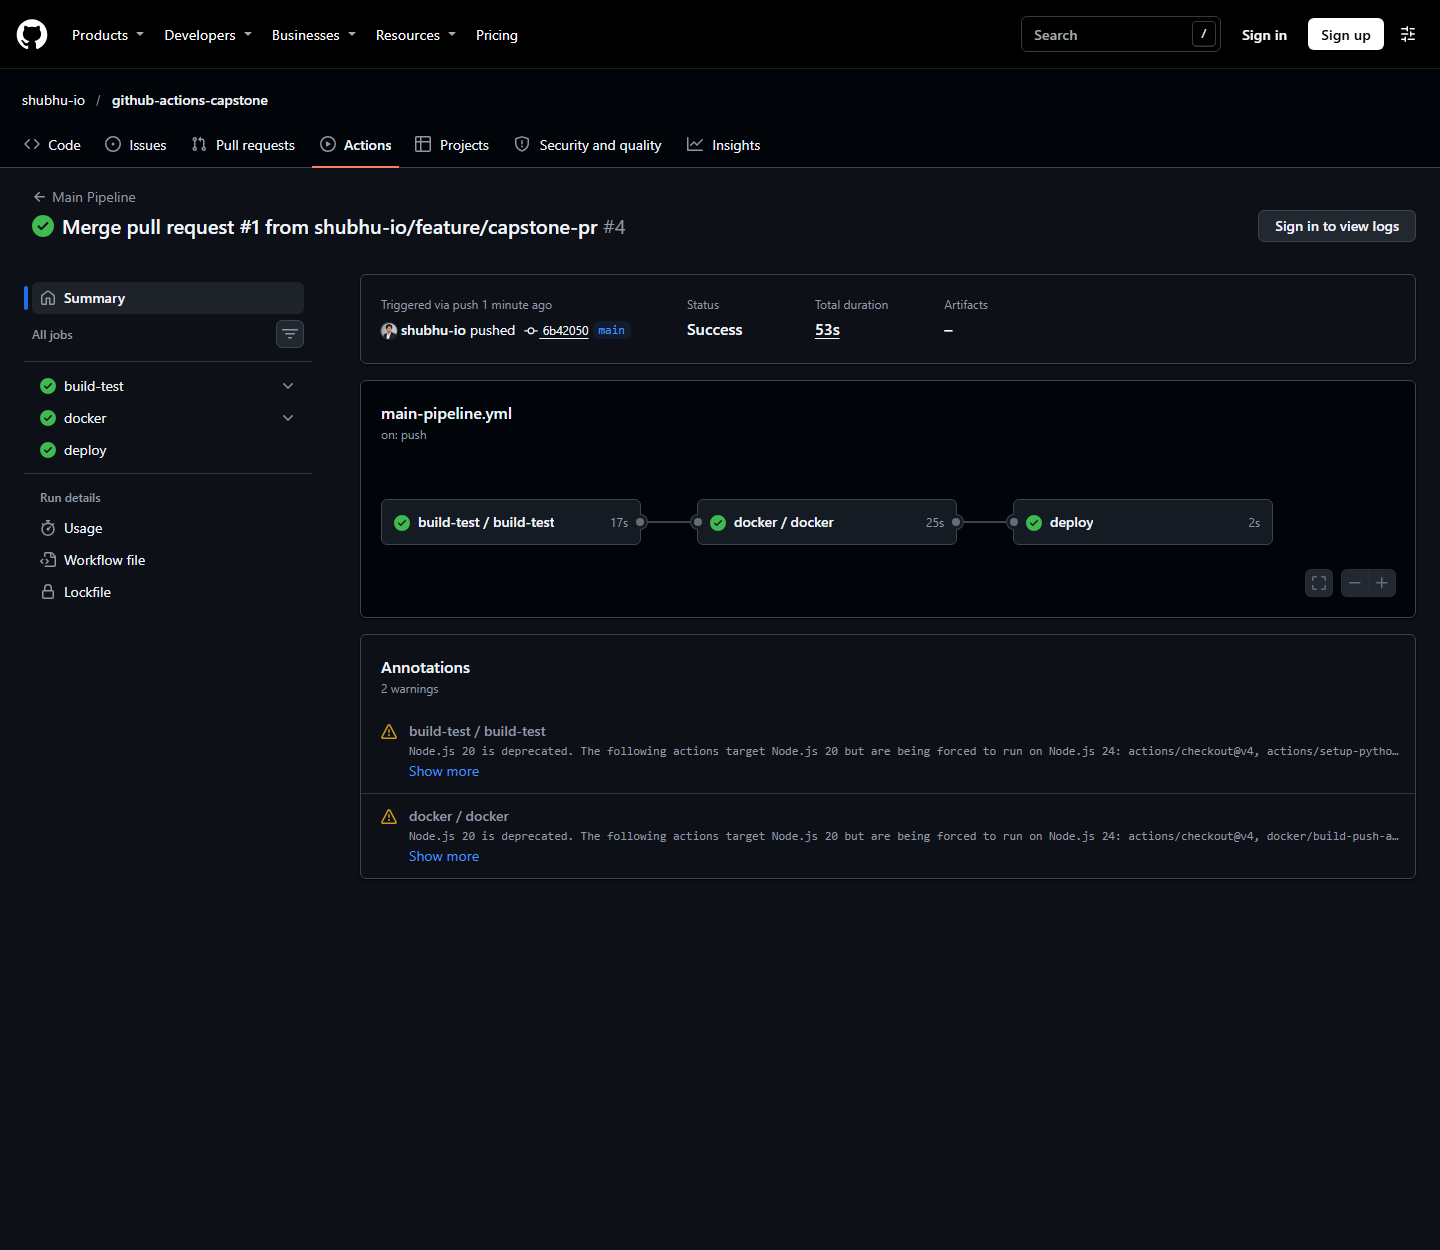
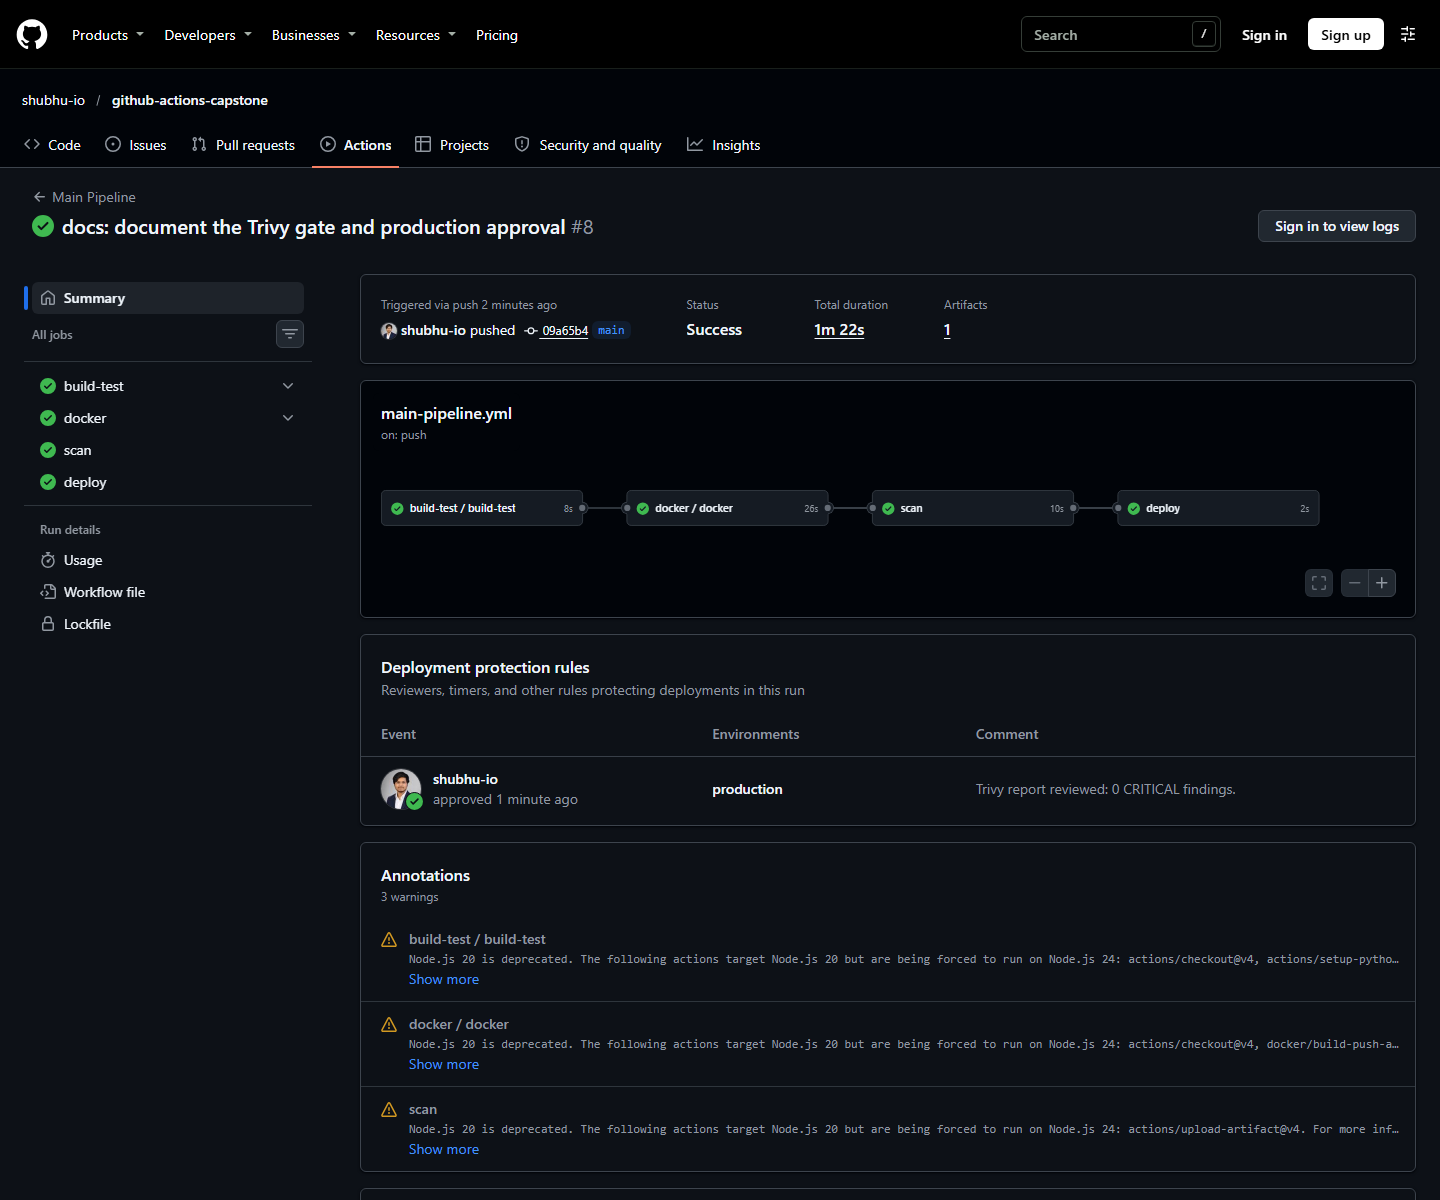
Day 48: add the real Trivy gate and production approval

diff --git a/2026/day-48/day-48-actions-project.md b/2026/day-48/day-48-actions-project.md
@@ -76,17 +76,22 @@ ran only `build-test` and `pr-comment`, finished in 20s, and published no image.
 
 ## Task 5: Main Branch Pipeline
 
-`.github/workflows/main-pipeline.yml` runs on `push` to `main`. Three jobs run in
-order: `build-test` → `docker` → `deploy`. The deploy job uses
-`environment: production`.
+`.github/workflows/main-pipeline.yml` runs on `push` to `main`. Four jobs run in
+order: `build-test` → `docker` → `scan` → `deploy`. The deploy job uses
+`environment: production`, which requires a reviewer.
 
-**Verification:** merging the PR ran the full chain in 53 seconds and printed:
+**Verification:** the latest run finished in 1m 22s. The deploy waited for approval,
+then printed:
 
 ```text
 Deploying image: ghcr.io/shubhu-io/github-actions-capstone:latest to production
 ```
 
-![Main pipeline: build-test, docker, deploy](./screenshots/actions-main-pipeline.png)
+![Main pipeline: build-test, docker, scan, deploy - approved](screenshots/actions-main-pipeline.png)
+
+While waiting, the run page shows the gate clearly:
+
+![Production requires an approval before deploy starts](screenshots/actions-production-approval.png)
 
 ![Deploy job, all steps green](./screenshots/actions-deploy-job.png)
 
@@ -131,7 +136,7 @@ subgraph PR["Pull Request"]
 end
 
 subgraph MAIN["Merge to main"]
-  D["Push to main"] --> E["Reusable build & test"] --> F["Docker build & push<br/>latest + sha-commit"] --> G["Deploy<br/>production environment"]
+  D["Push to main"] --> E["Reusable build & test"] --> F["Docker build & push<br/>latest + sha-commit"] --> S["Trivy scan<br/>CRITICAL gate"] --> G["Deploy<br/>approved for production"]
 end
 
 subgraph HEALTH["Every 12 hours"]
@@ -145,33 +150,54 @@ end
 |---|---|
 | Slack or Teams alert on failure | Know about a red `main` in seconds |
 | Staging environment before production | Catch problems before the real deploy |
-| Trivy scan before the push | Block CRITICAL CVEs (Day 49) |
 | Rollback to the last `sha-*` tag | Recover from a bad health check |
+
+---
+
+## Brownie Points: Security Gate with Trivy
+
+The `scan` job runs after the image is pushed and before the deploy starts:
+
+- Scans the published image for `CRITICAL` vulnerabilities
+- Fails the pipeline on a finding (`exit-code: '1'`)
+- Ignores unfixed findings so a base-image CVE with no patch cannot block every release
+- Uploads the report as the `trivy-report` artifact
+
+Real report from the latest run: **0 critical findings** across Debian 13.7 and the
+Python packages (`flask 3.1.3`, `jinja2 3.1.6`, `werkzeug 3.1.9`).
+
+The full report is saved at [`trivy-report.txt`](./trivy-report.txt).
+
+**Workflow:** [`main-pipeline.yml`](./main-pipeline.yml)
 
 ---
 
 ## Outcome
 
-A working pipeline where pull requests only test, merges to `main` publish an image
-and deploy it, and a scheduled job keeps checking that the published image is healthy.
+A working pipeline where pull requests only test, merges to `main` publish an image,
+scan it for CRITICAL CVEs, and deploy it after approval, while a scheduled job keeps
+checking that the published image is healthy.
 
 ### Key Learnings
 
 - **Reusable workflows keep the repo DRY.** Test and build logic exist once and are called from both the PR and main pipelines.
 - **PRs must stay registry-blind.** Untrusted code never receives push credentials.
-- **`needs:` gives a real release order.** Test, then publish, then deploy - never in parallel.
+- **`needs:` gives a real release order.** Test, then publish, scan, then deploy - never in parallel.
 - **A colon inside a plain YAML value breaks the workflow.** `run: echo "Deploying image: ..."` failed in 0 seconds until I switched to `run: |`.
 - **GitHub skips outputs that contain a secret.** Passing the registry username as a secret hid `image_url`, so only the token is secret now.
+- **Actions tags need their real prefix.** `trivy-action@0.28.0` does not exist; the tag is `v0.36.0`. A wrong ref fails during job setup, before any scan runs.
+- **Environment protection is one setting.** Adding a reviewer to `production` paused the deploy until it was approved, with no workflow changes.
 - **Scheduled workflows only run from the default branch.** Test them with `workflow_dispatch`.
 
 ### Notes on this build
 
 - **Registry:** GHCR instead of Docker Hub. The Docker Hub token on my older practice repo was expired (`unauthorized`), and GHCR works with the built-in `GITHUB_TOKEN`.
 - **PR badge:** removed, because a `pull_request`-only workflow has no run on `main` and the badge reports "failing".
-- **Trivy:** intentionally left for Day 49.
+- **Self-review:** `prevent_self_review` is off, so the same account can approve its own deploy. A team should leave it on.
 
 ### Run history
 
-- [Main #4 - merge to main, 53s](https://github.com/shubhu-io/github-actions-capstone/actions/runs/44673520831)
+- [Main #8 - test, image, scan, approved deploy, 1m22s](https://github.com/shubhu-io/github-actions-capstone/actions/runs/44678076398)
+- [Main #4 - first full merge run, 53s](https://github.com/shubhu-io/github-actions-capstone/actions/runs/44673520831)
 - [PR #2 - tests only, 20s](https://github.com/shubhu-io/github-actions-capstone/actions/runs/44673441396)
 - [Health Check #1 - HTTP 200, 17s](https://github.com/shubhu-io/github-actions-capstone/actions/runs/44673626638)
